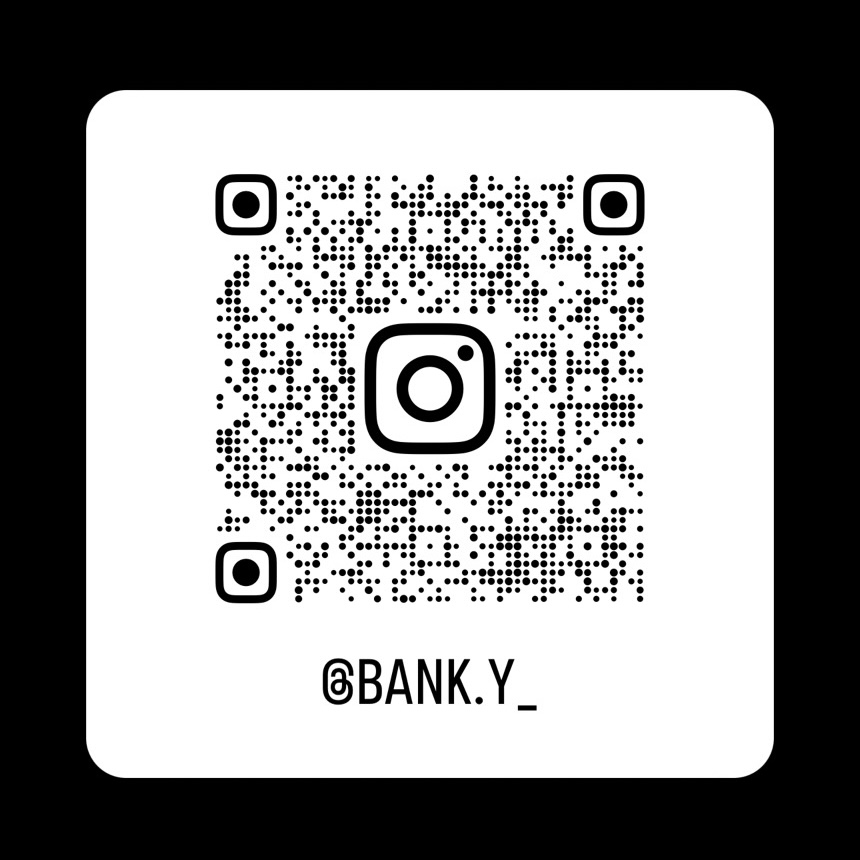
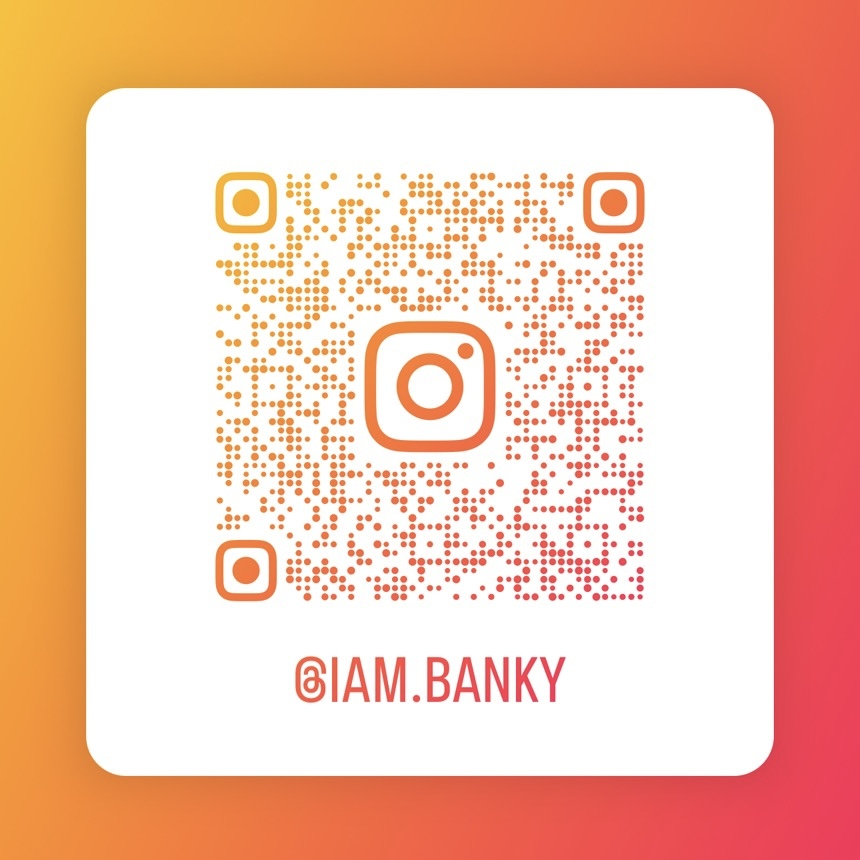
✨ :  Change IG link

diff --git a/index.html b/index.html
@@ -31,7 +31,7 @@
             <a onclick="link('Twitter')"><i class="fa-brands fa-twitter"></i> Twitter</a>
             <a onclick="link('Discord')"><i class="fa-brands fa-discord"></i> Discord</a>
             <a onclick="link('Twitch')"><i class="fa-brands fa-twitch"></i> Twitch</a>
-            <!--<a onclick="link('Locket')"><i class="fa-solid fa-heart"></i> Locket</a>-->
+            <a onclick="link('Locket')"><i class="fa-solid fa-heart"></i> Locket</a>
             <a onclick="link('Github')"><i class="fa-brands fa-github"></i> GitHub</a>
             <a href="mailto:info@iambanky.com"><i class="fa-solid fa-envelope"></i> Info@IamBanky.com</a>
             <!--

diff --git a/js/app.js b/js/app.js
@@ -1,11 +1,11 @@
 urllist = {
     //social
     'Facebook': 'https://facebook.com/IamBanky',
-    'Instagram': 'https://www.instagram.com/bank.y_',
+    'Instagram': 'https://www.instagram.com/iam.banky',
     'Twitter': 'https://twitter.com/CallMeBanky',
     'Discord': 'https://discord.com/users/784066460627632148',
     'Twitch': 'https://www.twitch.tv/iambanky',
-    'Locket': 'https://locket.camera/links/nbtcM6jfrbeuHq3C6',
+    'Locket': 'https://locket.camera/links/zXjafyizLfQfBzZv5',
     'Github': 'https://github.com/BankTNBD',
 
     //Project
